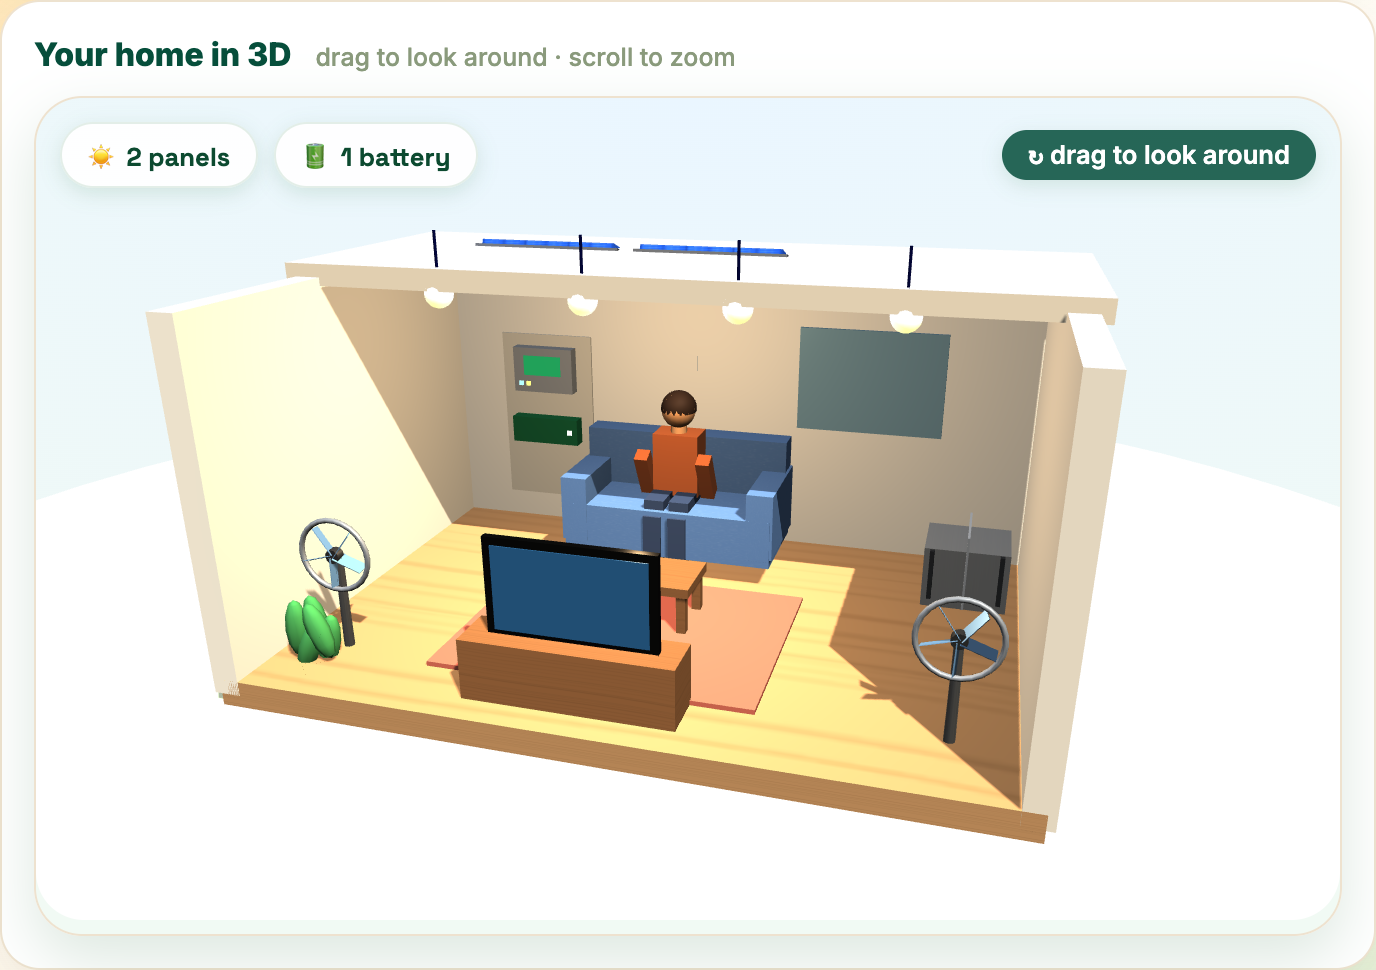
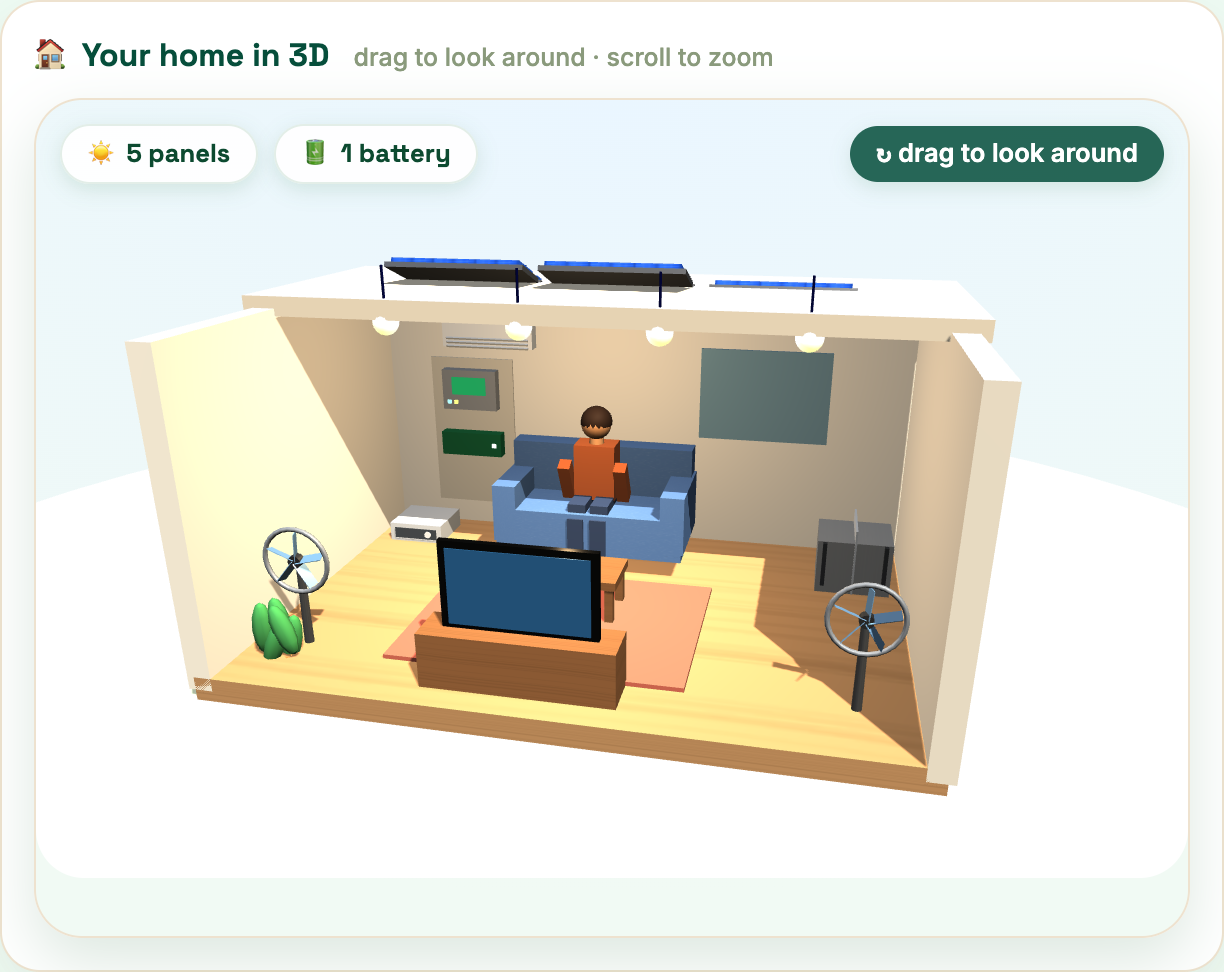
Docs: fresh Gradio screenshots (home, 3D, account, reviews); accounts + review-wall in flow

diff --git a/README.md b/README.md
@@ -71,10 +71,14 @@ For Yorùbá, Hausa, and Igbo the spoken plan is phrased the way a person actual
 - 🔄 **Size another system** in one tap, without losing your place.
 - 🏠 **2D and 3D** of your specific home, with the recommended panels, appliances, inverter, and battery.
 - 💬 **Ask anything** about your plan, panels, savings, generators, or adding load later.
-- 👤 **Accounts and history**, save your sizings and open them again any time.
+- 👤 **Accounts, optional and never a wall.** Sign in and your sizings are saved automatically, ready to reopen and compare.
+- ⭐ **Reviews.** Anyone can leave a review on the wall (shown with the language they used); a live "systems sized" counter and an optional email list too.
 - 🌗 **Light and dark mode**, remembered across visits.
 - 🧭 **Guided first-run tour** that walks new users through every step, in their language.
-- 💛 **Ratings and testimonials** from real users (with the language they used), a live "systems sized" counter, and optional email capture.
+
+![Sign in to save your sizings, kept automatically as you size](assets/09_account.png)
+
+![Leave a review others can read](assets/10_reviews.png)
 
 ![Dark mode](assets/07_dark.png)
 

diff --git a/ARTICLE.md b/ARTICLE.md
@@ -68,7 +68,11 @@ Then it waits for your questions. You can ask why it picked those panels, whethe
 
 ## The small things that make it feel like an app
 
-A few touches turn this from a demo into something you would actually keep open. The first time you arrive, a short guided tour points out how to speak, type, or photograph your appliances, in your own language. When you are done, you can size another system in a single tap. There is a light mode and a dark mode, and the app remembers which you prefer. You can make an account to save your sizings and open them again later. And the front page carries real ratings from people who have used it, each shown with the language they sized in, so a Hausa speaker can see another Hausa speaker vouch for it.
+A few touches turn this from a demo into something you would actually keep open. The first time you arrive, a short guided tour points out how to speak, type, or photograph your appliances, in your own language. When you are done, you can size another system in a single tap. There is a light mode and a dark mode, and the app remembers which you prefer. You can make an account to save your sizings, and new ones are kept automatically as you go, so you can open and compare them later. Anyone can leave a review, and the wall carries those real ratings, each shown with the language the person sized in, so a Hausa speaker can see another Hausa speaker vouch for it.
+
+![Sign in to save your sizings, and new ones are kept automatically](https://huggingface.co/spaces/build-small-hackathon/naija-solar/resolve/main/assets/09_account.png)
+
+![Leave a review for others to read](https://huggingface.co/spaces/build-small-hackathon/naija-solar/resolve/main/assets/10_reviews.png)
 
 ![A guided first run, in dark mode](https://huggingface.co/spaces/build-small-hackathon/naija-solar/resolve/main/assets/07_dark.png)
 